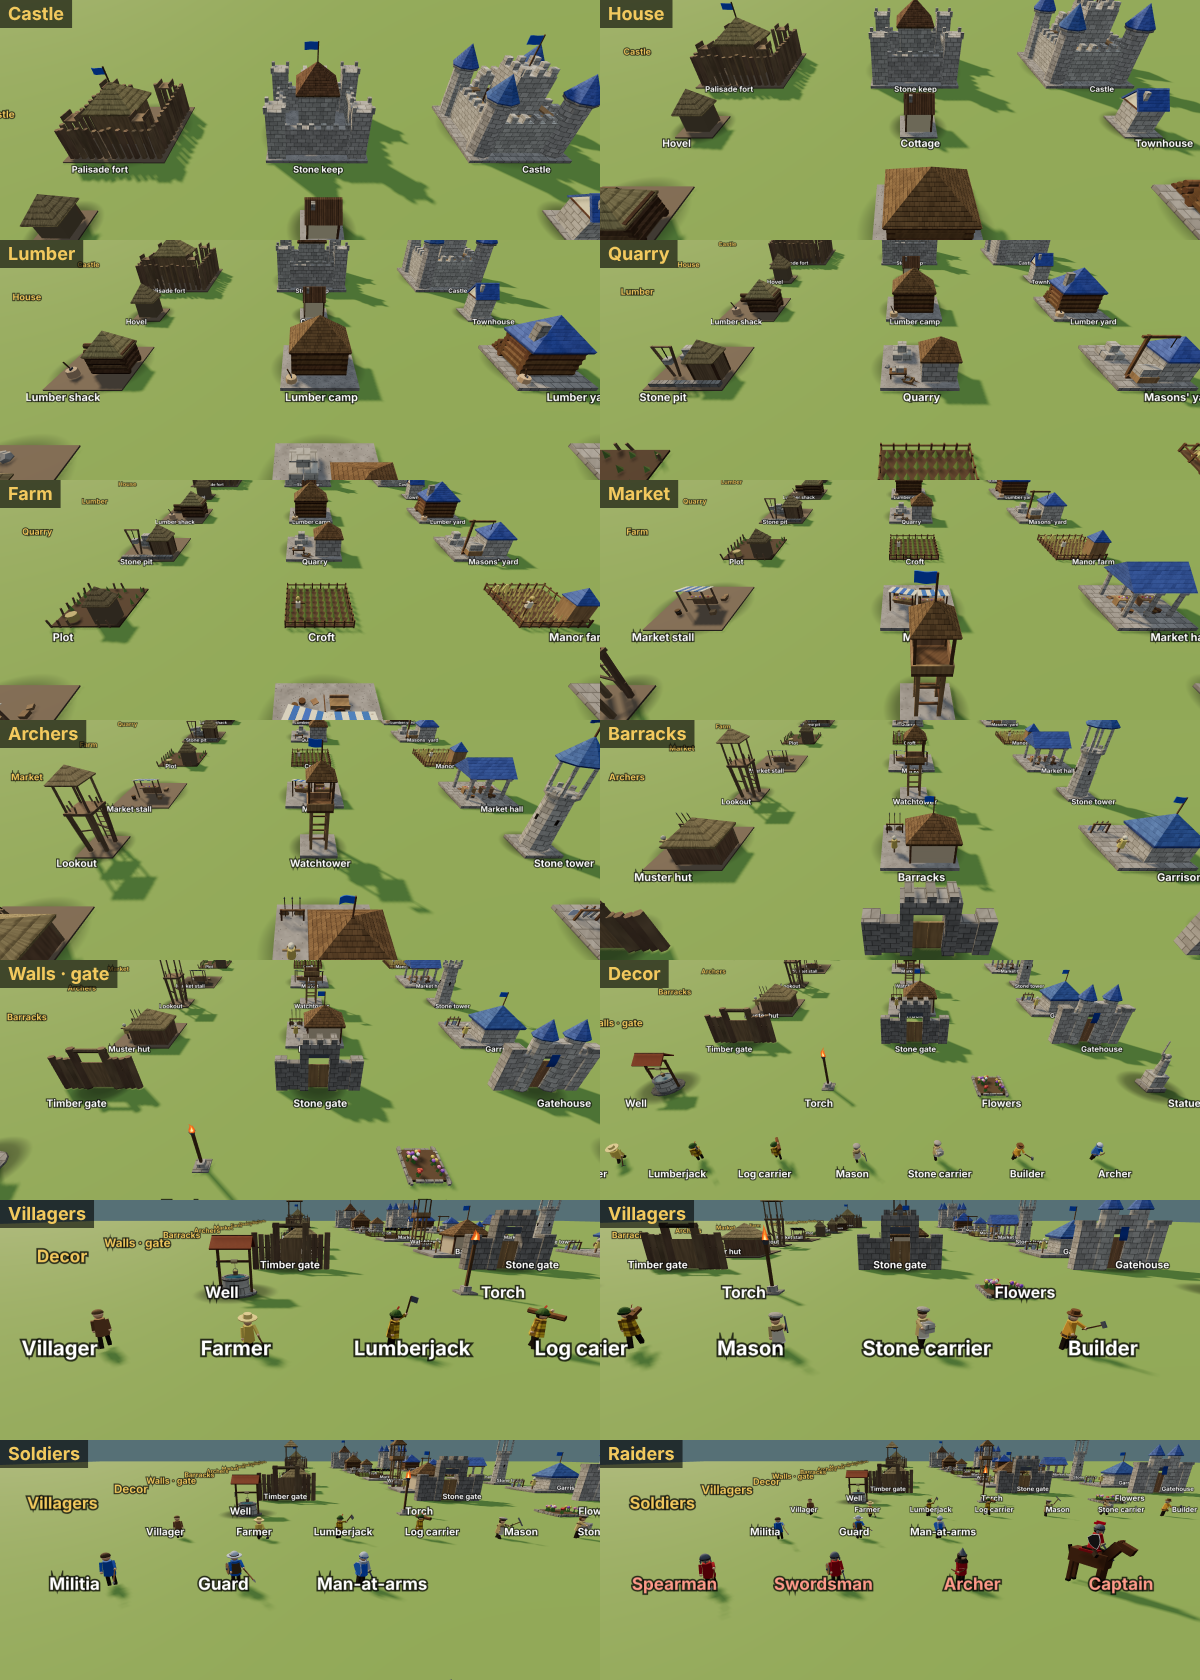
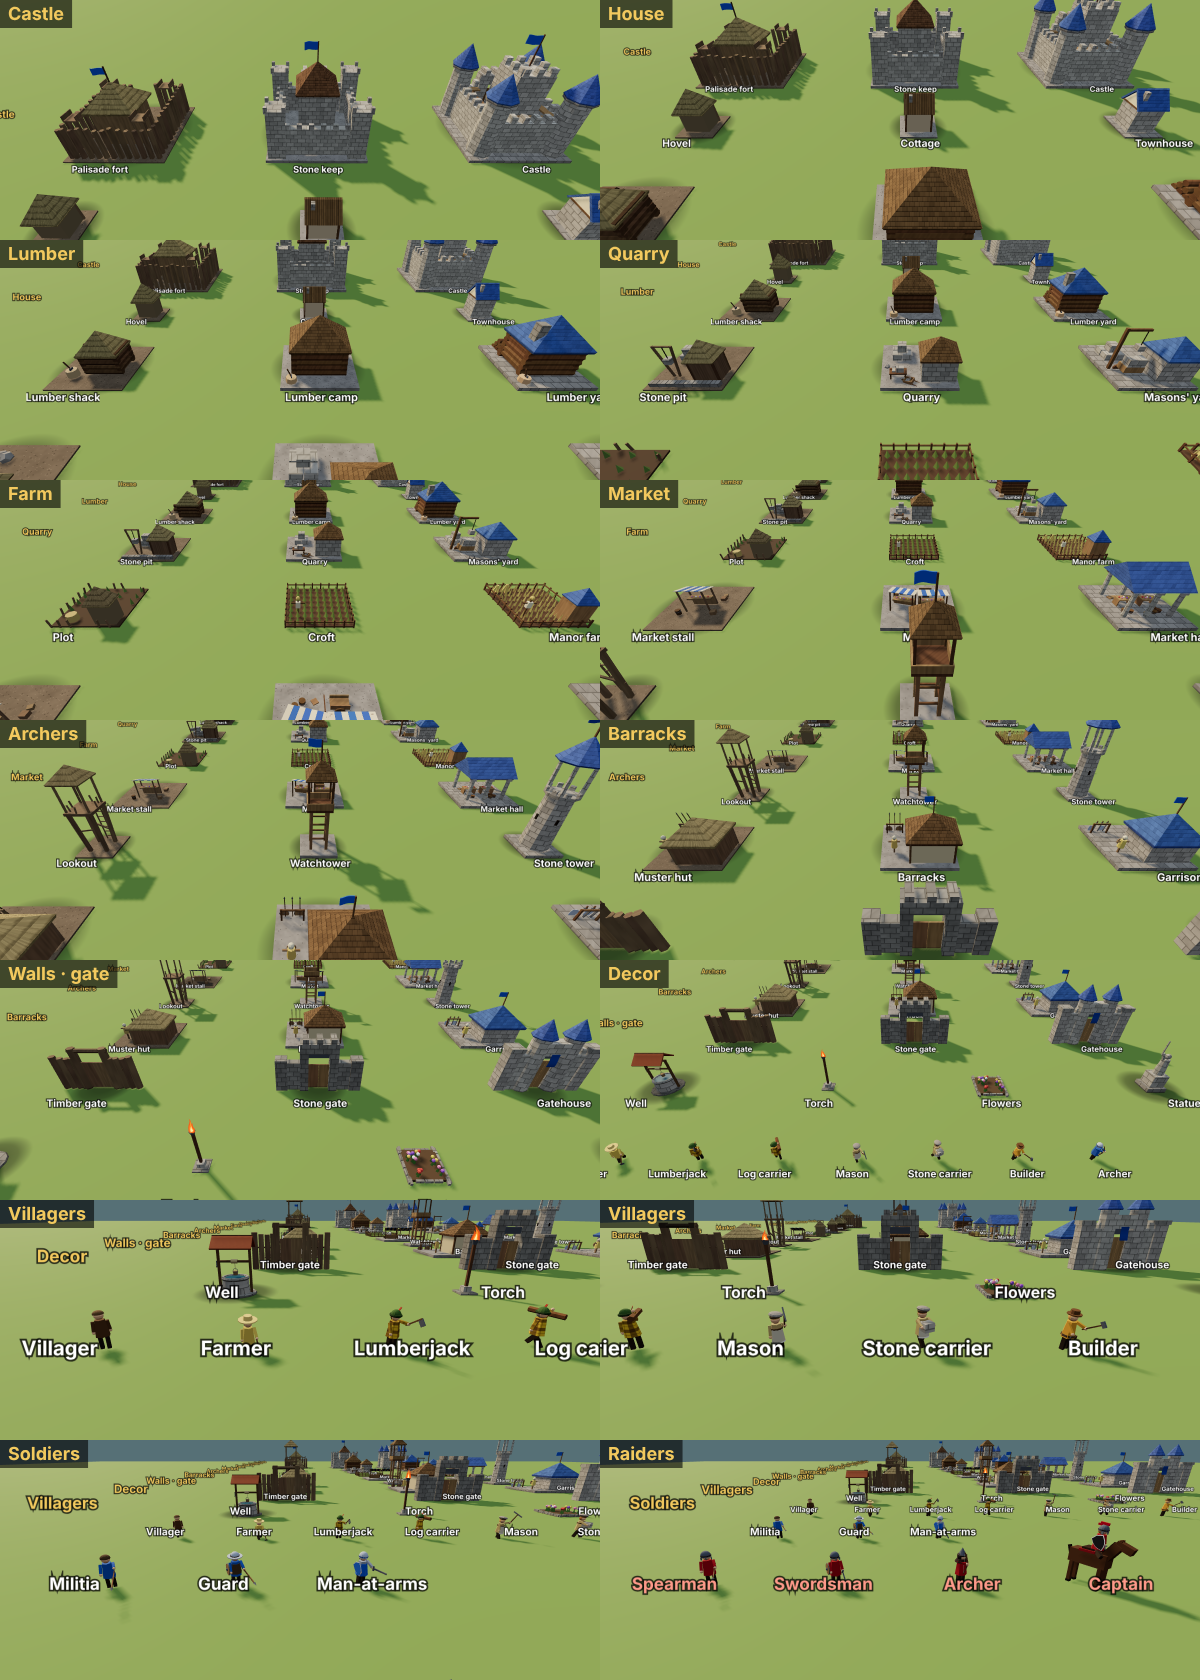
Lumber shack hut nearer the middle (door shift measured from the tile), Masons' yard hoist and cart on the yard's right, earth grit on tier-1 slabs
Claude-Session: https://claude.ai/code/session_01AE8sRRsVdpH9ETfQvtppox

diff --git a/index.html b/index.html
@@ -816,6 +816,8 @@ const GRIT = {
     diffuseColor.rgb *= .76 + .3 * gg + .1 * gk;`,
   rock: `float r1 = gn2(vGP.xz * 3.6 + vGP.y * 2.7), r2 = gn2(vec2(vGP.x + vGP.y, vGP.z - vGP.y) * 11.0);
     diffuseColor.rgb *= (.74 + .3 * r1 + .14 * r2) * (gh2(floor(vGP.xz * 26.0 + vGP.y * 9.0)) > .93 ? .7 : 1.0);`,
+  earth: `vec2 ep = vGP.xz + vGP.y * 1.3; float e1 = gn2(ep * 1.7), e2 = gn2(ep * 7.5 + 3.1), es = gh2(floor(ep * 22.0));
+    diffuseColor.rgb *= (.8 + .26 * e1 + .12 * e2) * (es > .94 ? .7 : es < .05 ? 1.2 : 1.0);`,
   stone: `float s1 = gn2(vec2(vGP.x + vGP.z, vGP.y) * 9.0);
     diffuseColor.rgb *= .9 + .18 * s1;`,
 };
@@ -835,7 +837,7 @@ function addGrit(m, kind) {
   m.customProgramCacheKey = () => 'grit:' + kind + ':' + prev.toString();
 }
 for (const m of [M.wood, M.rough, M.timber, M.log, M.dark]) addGrit(m, 'wood');
-addGrit(M.stone, 'stone'); addGrit(M.stone2, 'stone');
+addGrit(M.stone, 'stone'); addGrit(M.stone2, 'stone'); addGrit(M.court, 'earth');   // tier 1 slabs: mottled packed earth with pebbles
 M.plainStone = mat('#8f8a80'); addGrit(M.plainStone, 'rock');   // tier 2 bases: rough grey stone without block joints
 M.drape = mat('#2f4f8a');
 M.awning = mat('#3466b0');   // market awning stripes: the town's blue (no flag wave)
@@ -1135,7 +1137,7 @@ function rebuildRoads() {
 // each model's door, in its own frame (front = +z): x across the front, z just outside the door leaf, per tier
 const DOOR = {
   house: [[0, .6], [0, .62], [0, .66]],
-  lodge: [[-1, .52], [-.6, 1.14], [-.6, 1.14]],
+  lodge: [[-.65, .52], [-.6, 1.14], [-.6, 1.14]],
   quarry: [[-1, -.22], [-1, .03], [-1, .03]],
   castle: [[0, .5], [0, 2.75], [0, 2.51]],      // T1 the hall door; T2/T3 the gatehouse
   barracks: [[-1, .42], [-1, .42], [-1, .42]],
@@ -1316,10 +1318,10 @@ function makeLodge(tier, plinth) {
   const pile = (x, z, n, rad = .17) => { const d = rad * 2.1; for (let r = 0; r < n; r++) for (let c = 0; c < n - r; c++) { const l = cyl(rad, rad, 1.1, 7, M.log, x, rad * 1.8 + r * d * .87, z + (c - (n - r - 1) / 2) * d); l.rotation.z = Math.PI / 2; g.add(l); } };
   const axeStump = (x, z) => { g.add(cyl(.28, .3, .45, 8, M.logEnd, x, .25, z)); const h = box(.05, .6, .05, M.timber, x + .08, .7, z); h.rotation.z = -.4; g.add(h); g.add(box(.05, .16, .22, M.iron, x - .02, .5, z)); };
   if (tier === 1) {            // woodcutter's hut: short log walls, thatched roof, chopping stump
-    const X = -.9;              // the door (x -1) lines up with the left column's path tile
+    const X = -.55, D = X - .1;  // hut centre and its door (DOOR.lodge[0]; doorShift lines the path tile's arm up with it)
     for (let n = 0; n < 4; n++) {
       const y = .3 + n * .3;
-      if (n < 3) for (const [x0, x1] of [[X - 1, -1.27], [-.73, X + 1]]) { const l1 = cyl(.15, .15, x1 - x0, 6, M.log, (x0 + x1) / 2, y, .45); l1.rotation.z = Math.PI / 2; g.add(l1); }
+      if (n < 3) for (const [x0, x1] of [[X - 1, D - .27], [D + .27, X + 1]]) { const l1 = cyl(.15, .15, x1 - x0, 6, M.log, (x0 + x1) / 2, y, .45); l1.rotation.z = Math.PI / 2; g.add(l1); }
       else { const l1 = cyl(.15, .15, 2.0, 6, M.log, X, y, .45); l1.rotation.z = Math.PI / 2; g.add(l1); }
       const l2 = cyl(.15, .15, 2.0, 6, M.log, X, y, -.75); l2.rotation.z = Math.PI / 2; g.add(l2);
       const l3 = cyl(.15, .15, 1.4, 6, M.log, X + .9, y + .15, -.15); l3.rotation.x = Math.PI / 2; g.add(l3);
@@ -1327,7 +1329,7 @@ function makeLodge(tier, plinth) {
     }
     g.add(box(1.7, 1.2, 1.1, M.rough, X, .75, -.15));
     g.add(pyramid(1.5, 1.1, .78, M.thatchOld, 1.9, X, -.15));
-    g.add(box(DOOR_W, DOOR_H, .06, M.timber, -1, .08 + DOOR_H / 2, .46));
+    g.add(box(DOOR_W, DOOR_H, .06, M.timber, D, .08 + DOOR_H / 2, .46));
     pile(1.05, 1.25, 2);
     axeStump(1.1, -.85);       // chopping block round the back, beside the hut
   } else {                     // log cabin, then timber yard
@@ -1495,11 +1497,12 @@ function makeQuarry(tier, plinth) {
       for (const sx of [-1, 1]) { const h = box(.035, .035, .95, M.timber, sx * .16, .24, -.08); h.rotation.x = -.14; wb.add(h); wb.add(box(.035, .16, .035, M.timber, sx * .16, .08, -.28)); }
     }
     if (tier === 3) {
-      g.add(box(.14, 2.6, .14, M.timber, 1.0, 1.4, -1.0)); g.add(box(1.8, .12, .12, M.timber, .4, 2.6, -1.0));
-      g.add(box(.03, .9, .03, M.dark, -.4, 2.15, -1.0)); g.add(box(.35, .3, .35, M.stone2, -.4, 1.55, -1.0));
-      g.add(box(1.0, .35, .6, M.wood, .6, .55, -1.55));      // cart parked behind, off the door path
-      for (const x of [.2, 1.0]) { const w = cyl(.22, .22, .08, 10, M.timber, x, .25, -1.22); w.rotation.x = Math.PI / 2; g.add(w); }
-      blocks([[.45, .95, -1.55], [.85, .95, -1.55]]);
+      // a hoist on the yard's right side, its block hanging over a cart being loaded
+      g.add(box(.14, 2.6, .14, M.timber, 1.6, 1.4, -.35)); g.add(box(1.3, .12, .12, M.timber, 1.0, 2.6, -.35));
+      g.add(box(.03, .9, .03, M.dark, .5, 2.15, -.35)); g.add(box(.35, .3, .35, M.stone2, .5, 1.55, -.35));
+      g.add(box(1.0, .35, .6, M.wood, .75, .55, -.7));
+      for (const x of [.35, 1.15]) { const w = cyl(.22, .22, .08, 10, M.timber, x, .25, -.37); w.rotation.x = Math.PI / 2; g.add(w); }
+      blocks([[.55, .95, -.75], [.95, .95, -.75]]);
     }
   }
   return g;
@@ -2019,10 +2022,12 @@ function charmOf(B) {
 const housesNear = (x, z) => buildings.filter(B => B.type === 'house' && Math.hypot(center(B).x - x, center(B).z - z) <= CHARM_R).length;
 function center(B) { return { x: (B.ev.x0 + B.ev.x1) / 2, z: (B.ev.z0 + B.ev.z1) / 2 }; }
 function doorPoint(B) { const d = B.door; if (!d) return { x: center(B).x, z: B.ev.z1 + .6 }; const [sx, sz] = doorShift(B); return { x: (d.a + .5) * CELL + sx, z: (d.b + .5) * CELL + sz }; }
-// how far this tier's door sits across from the door tile's centre line (the tile lines up with the tier-1 door)
+// how far this tier's door sits across from the door tile's centre line (the tile holding the tier-1 door: on a 2x2 its
+// centre is 1 m off the building's middle, toward the door's side)
 function doorShift(B) {
   const L = DOOR[B.type]; if (!L || !B.door) return [0, 0];
-  return faceRot(B.face || 0, L[B.tier - 1][0] - L[0][0], 0);
+  const tile = B.ev.s % 2 ? 0 : Math.sign(L[0][0]) * CELL / 2;
+  return faceRot(B.face || 0, L[B.tier - 1][0] - tile, 0);
 }
 // where the model's own door is; villagers walk from the path tile to here before they vanish inside
 function innerDoor(B) {

diff --git a/CLAUDE.md b/CLAUDE.md
@@ -23,7 +23,7 @@ The whole game is currently one self-contained file: `index.html` (~165 KB, thre
 
 ## Style rules (from Jack)
 - UI text is minimal: a few words, no explanations (hints like "Pick a spot", "Occupied", "Need [wood]5"; banners "Night 2 · 8 raiders"; log lines "<b>Cottage</b> ready"). Keep new text in this style.
-- Colour code: town = blue (flags, soldiers, tier-3 roofs), raiders = red, villagers = yellows. Roofs by tier: tier 1 straw thatch (`M.thatchOld`: strands radiate from the peak by object-space angle, level course lines by world y), tier 2 compact rounded logs from ridge to eave like the palisade (`logRoof`: `M.thatch` for pyramids: staggered wooden shingles (rows by world height); `M.logGable` for gable slabs by local x; each has its own `customProgramCacheKey`), tier 3 blue tiles (`M.roofBlue`, `roofGrit`). Every roof has a thick eave: `pyramid()` and `coneRoof()` (blue tower cones) return a group with the roof plus a band under its edge; gable slabs are 0.1 m thick. Bases by tier: tier 1 house, lumber camp, quarry, castle, barracks and archer tower stand on a packed-earth slab (`M.court`, like the palisade fort's yard; `SLAB`, top `SLAB_TOP` .08, added in `makeModel`) that fills the footprint, so the fort's palisade sits on it and neighbours join up; tier 2 bases are plain grey stone (`M.plainStone`, rock grit, no block joints); tier 3 bases keep the masonry `M.stone`. `plinthTop(type, tier)` gives the top height for `snapToNeighbours` (placement, within 0.8 m) and `stoneAt` (paths stop at any base's edge); Bases (footprint-wide meshes below ground level) take one shade per tier in `makeModel`'s tinting, so neighbours match. `planFlatten` may lower ground on an edge shared with a locked neighbour down to the new building's level (never raise it), so no base gets buried; the T1 slab is 1 m deep. `flushHeight` finds the matching height, and `settleBase` re-levels a building after each upgrade so its new base stays flush with neighbours whatever their tier (only within 0.3 m; much higher or lower ground is left alone). Tier 1 farms have no base.
+- Colour code: town = blue (flags, soldiers, tier-3 roofs), raiders = red, villagers = yellows. Roofs by tier: tier 1 straw thatch (`M.thatchOld`: strands radiate from the peak by object-space angle, level course lines by world y), tier 2 compact rounded logs from ridge to eave like the palisade (`logRoof`: `M.thatch` for pyramids: staggered wooden shingles (rows by world height); `M.logGable` for gable slabs by local x; each has its own `customProgramCacheKey`), tier 3 blue tiles (`M.roofBlue`, `roofGrit`). Every roof has a thick eave: `pyramid()` and `coneRoof()` (blue tower cones) return a group with the roof plus a band under its edge; gable slabs are 0.1 m thick. Bases by tier: tier 1 house, lumber camp, quarry, castle, barracks and archer tower stand on a packed-earth slab (`M.court` with the `earth` grit: mottled packed earth with dark and pale pebble specks, like the palisade fort's yard; `SLAB`, top `SLAB_TOP` .08, added in `makeModel`) that fills the footprint, so the fort's palisade sits on it and neighbours join up; tier 2 bases are plain grey stone (`M.plainStone`, rock grit, no block joints); tier 3 bases keep the masonry `M.stone`. `plinthTop(type, tier)` gives the top height for `snapToNeighbours` (placement, within 0.8 m) and `stoneAt` (paths stop at any base's edge); Bases (footprint-wide meshes below ground level) take one shade per tier in `makeModel`'s tinting, so neighbours match. `planFlatten` may lower ground on an edge shared with a locked neighbour down to the new building's level (never raise it), so no base gets buried; the T1 slab is 1 m deep. `flushHeight` finds the matching height, and `settleBase` re-levels a building after each upgrade so its new base stays flush with neighbours whatever their tier (only within 0.3 m; much higher or lower ground is left alone). Tier 1 farms have no base.
 - Medieval look over clean/modern: crooked timbers, daub, thatch, small shuttered windows.
 
 ## Recent model notes
@@ -38,7 +38,7 @@ The whole game is currently one self-contained file: `index.html` (~165 KB, thre
 - Arrows leave from the bow (`bowPoint`: raises the bow arm, reads the bow's world position) for tower/castle archers and raider archers.
 - Construction: `addScaffold` builds poles every ~1 m, plank decks per lift, braces, a ladder and material stacks; walls/torches/flowers get a light version (`LIGHT_SCAFFOLD`). Builders kick up dust (`dustAt`, shares the smoke `puffs`).
 - Walls are not flattened and have no AO plane; their posts/blocks run 0.3–0.6 m below ground so runs follow slopes cleanly.
-- Doors and facing: `DOOR[type][tier]` is each model's door in its own frame (front = +z). Every building except walls, gates and paths can face any side (`FACING`, `B.face` 0–3 = +z/+x/−z/−x, `faceRot`/`unrot`): `placeFace` is set with Rotate / R while placing (ghost turns with it); smart rotate: if that facing's door tile is blocked, `evaluate` picks the nearest turn whose door is open (order +0, −1, +1, +2 quarter turns; result in `ev.face`, used by the ghost and `place`), and the card's Rotate turns a placed one to the next side whose door tile is open (`doorOk`), else "Door blocked". `evaluate` rejects a spot whose door tile is blocked. Posts (`postOffset`) and farm obstacles (`farmBlocked`) follow the face. `doorCell` lines the door tile up with the door (1×1 and 3×3 on the centre, 2×2 tier-1 doors at local x −1). A later tier's door may sit off that line (lumber camp T2/T3 at x −0.6): `doorShift` moves the door point and the path tile's arm into the building across to it. No paths are laid automatically: the player builds them. Villagers walk from the door tile straight to `innerDoor(B)` and only vanish there (`goIn`/`exitDoor`/`doorStep`, `v.doorWalk` pauses their logic); loads are dropped once inside (`dropLoad`).
+- Doors and facing: `DOOR[type][tier]` is each model's door in its own frame (front = +z). Every building except walls, gates and paths can face any side (`FACING`, `B.face` 0–3 = +z/+x/−z/−x, `faceRot`/`unrot`): `placeFace` is set with Rotate / R while placing (ghost turns with it); smart rotate: if that facing's door tile is blocked, `evaluate` picks the nearest turn whose door is open (order +0, −1, +1, +2 quarter turns; result in `ev.face`, used by the ghost and `place`), and the card's Rotate turns a placed one to the next side whose door tile is open (`doorOk`), else "Door blocked". `evaluate` rejects a spot whose door tile is blocked. Posts (`postOffset`) and farm obstacles (`farmBlocked`) follow the face. `doorCell` lines the door tile up with the door (1×1 and 3×3 on the centre, 2×2 tier-1 doors at local x −1). A door may sit off the tile's centre line (lumber shack T1 at x −0.65, the hut nearer the middle; lumber camp T2/T3 at x −0.6): `doorShift` (measured from the tile's centre, 1 m off a 2×2's middle) moves the door point and the path tile's arm into the building across to it. No paths are laid automatically: the player builds them. Villagers walk from the door tile straight to `innerDoor(B)` and only vanish there (`goIn`/`exitDoor`/`doorStep`, `v.doorWalk` pauses their logic); loads are dropped once inside (`dropLoad`).
 - Opening doors: `leaf(w, h, t, m, hx, y, z, dir, open)` builds a door leaf hung on a hinge (`userData.leaf` = swing angle). The castle (T1 hall door swings out over a dark doorway; T2/T3 double gatehouse doors swing in) and gates (two leaves, closed across the opening, swing out) open while a visible villager is within 1.7 m of the door (`updateDoors`: castle at `innerDoor`, gate at its centre; `B.doorK` eases open 6/s, shut 2.5/s). Raiders never open them.
 - Archers draw with both hands at the bow for `DRAW` (.45 s) before each shot (`bowPose`: draw / loose / idle), town and raider alike. Melee raiders run (×1.6, faster stride, lean) within 6 m of their target.
 - Movement: `steer` tries straight, then the committed side, then the other side (`STEER_L`/`STEER_R`), each group first wanting clear ground 0.65 m ahead, so units slide along obstacles instead of bouncing between sides; they face the smoothed travel direction (`v.hx/hz`). `clearLine` shortcuts need 0.22 m clearance either side. `walkTo` tracks progress (`trackProgress` → `v.noProg`, seconds without getting 0.25 m closer; `unstick` resets `v.stuck` every 2 s, so give-ups must use `noProg`) and counts a crowded spot as reached (within stop + 0.7 m after 0.8 s without progress). Builders each take their own `workSpot` just outside the site (0.6 m out, 0.8 m from other builders' spots), switching spots after 5 s without progress. `separateUnits` weights pushes: walkers 1, standing .35, working .1, so walkers step round people standing still.
@@ -47,7 +47,7 @@ The whole game is currently one self-contained file: `index.html` (~165 KB, thre
 - Villager poses ease toward their target (arms, tool tilt, lean at 14/s) and tool swings are timed from a fixed per-villager `v.seed`, never `v.phase` (the stride keeps advancing `phase` while it fades out, which made the first strokes run 10× fast).
 - No jitter: villagers and raiders are drawn at an eased position (`smoothPos`: `rx/rz` follow `x/z` at 10/s, snap after a >2.5 m jump or 200 ms unseen) and their stride fades in/out (`stride`, `amp`); a blocked `steer` still counts as walking, so stuck units stride in place instead of twitching.
 - Fire: torch flames are unit cones (`FLAME_GEO`) in three unlit, see-through layers (`M.flame` orange, `M.flameMid`, `M.flameCore`) animated by `flameShader` (sway, lick, stretch; phase from each tongue's position, time from `windU`); flame meshes set `userData.noShadow`. Torches shed embers (additive sprites in `puffs`, `ember: true`). The gallery advances `windU` itself.
-- Well: stone apron, rubble ring with a coping, windlass (axle, wound rope `ropeM`, crank) on two posts, bucket hanging on its line, gable tile roof, spare bucket. Quarry T2 back yard: mason's bench with a half-dressed block, rubble heap, wheelbarrow. Castle T3 gatehouse has merlons. Chimney smoke follows the building's facing.
+- Well: stone apron, rubble ring with a coping, windlass (axle, wound rope `ropeM`, crank) on two posts, bucket hanging on its line, gable tile roof, spare bucket. Quarry T2 back yard: mason's bench with a half-dressed block, rubble heap, wheelbarrow. Castle T3 gatehouse has merlons. Masons' yard (quarry T3): the hoist stands on the yard's right with its block over a cart being loaded. Chimney smoke follows the building's facing.
 - Castle T2/T3 are drawn narrower in x/z (`CASTLE_K` .9/.82, posts scaled too) so corner towers stay inside the 3×3 plinth.
 - Castle T2 is all warm stone (`M.stone2`, like T3): plain curtain walls, square corner towers open on top, keep with a straw roof. Castle T3 holds 5 archers (2 on the keep, 1 on each wall-walk except the gate side).
 - Houses stay plain and ordinary so they never outshine the castle: T1 hovel, T2 daub cottage with corner posts and a straw gable roof, T3 one tall stone storey with a timber band, plaster gable and blue gable roof (no upper floor). All three are ~1.3–1.45 m to the eaves so the standard door fits. One door, few windows, small chimney.
